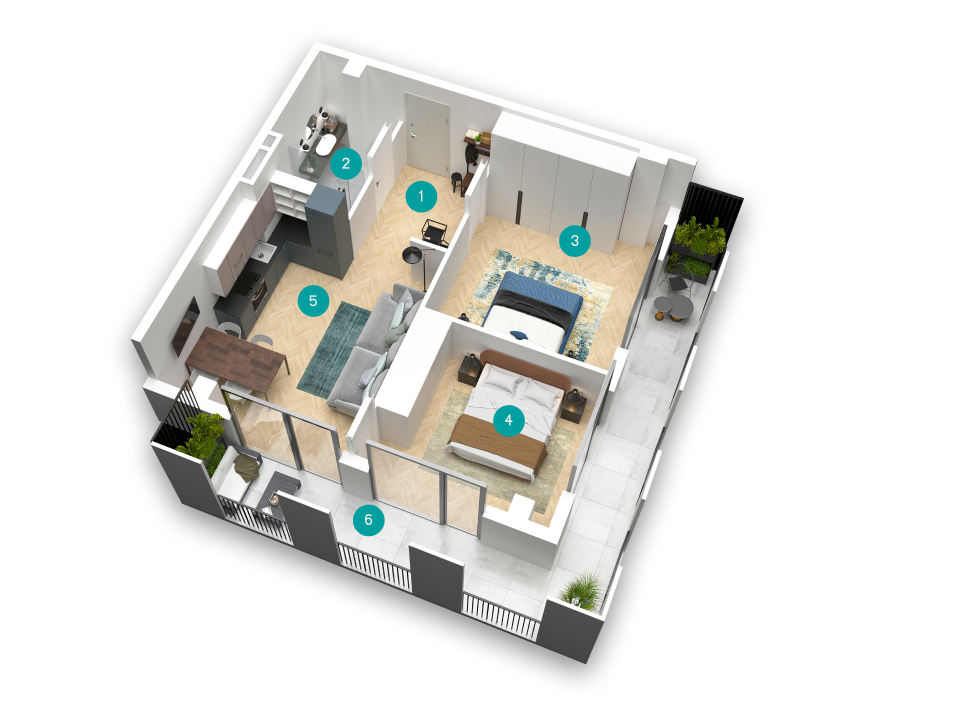
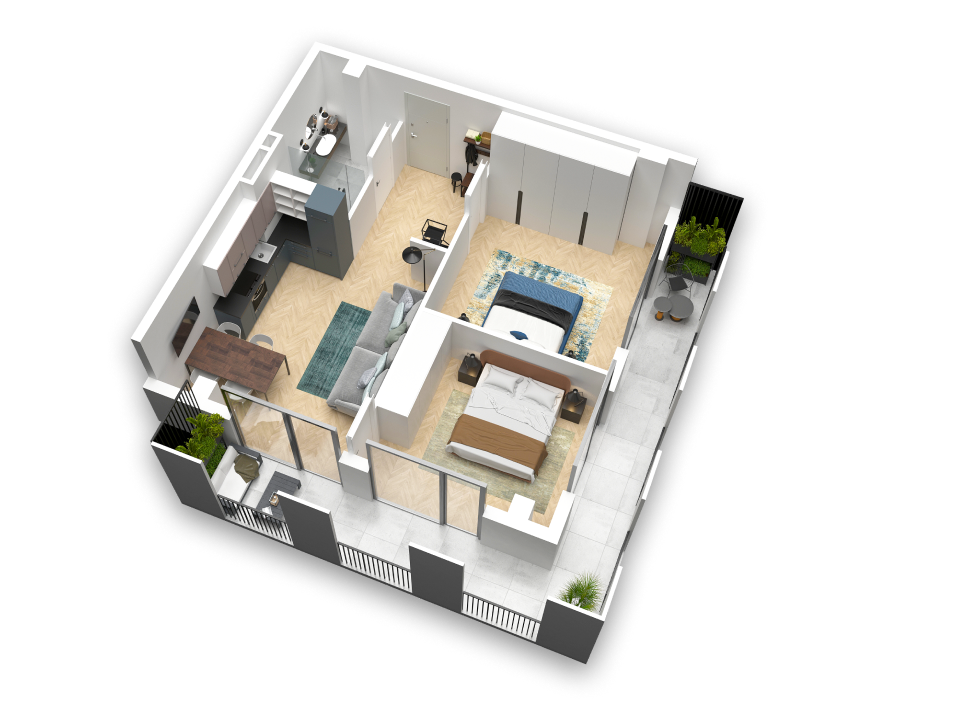
positioning numbers

diff --git a/src/components/Apartments/apartmentsInner/Apartment83.js b/src/components/Apartments/apartmentsInner/Apartment83.js
@@ -5,61 +5,37 @@ import logo from '../../../images/logo.svg'
 import './ApartmentInnerCSS.css'
 import m102inner from '../../../images/innerRenders/m83inner.png'
 
-const roomsArr = [
-    {   
-        id: 1,
-        number:1,
-        roomTypeGeo: 'ჰოლი',
-        roomTypeEng: 'Hall',
-        roomTypeRus: 'aaaa',
-        m2: '6.4 M2'      
-    },
 
-    {   
-        id: 2,
-        number:2,
-        roomTypeGeo: 'სააბაზანო',
-        roomTypeEng: 'Hall',
-        roomTypeRus: 'aaaa',
-        m2: '5 M2'
-    },
+const pointerStyle6 ={
+    left: '36%',
+    top: '70%'
+}
 
-    {
-        id: 3,
-        number:3,
-        roomTypeGeo: 'საძინებელი 1',
-        roomTypeEng: 'Hall',
-        roomTypeRus: 'aaaa',
-        m2: '17 M2'
-    },
+const pointerStyle5 ={
+    left: '30%',
+    top: '40%'
+}
 
-    {
-        id: 4,
-        number:4,
-        roomTypeGeo: 'საძინებელი 2',
-        roomTypeEng: 'Hall',
-        roomTypeRus: 'aaaa',
-        m2: '13.5 M2'
-    },
+const pointerStyle4 ={
+    right: '44.5%',
+    top: '56%'
+}
 
-    {
-        id: 5,
-        number:5,
-        roomTypeGeo: 'სტუდიო',
-        roomTypeEng: 'Hall',
-        roomTypeRus: 'aaaa',
-        m2: '20.3 M2'
-    },
+const pointerStyle3 ={
+    right: '40%',
+    top: '30%'
+}
 
-    {
-        id: 6,
-        number:6,
-        roomTypeGeo: 'აივანი',
-        roomTypeEng: 'Hall',
-        roomTypeRus: 'aaaa',
-        m2: '21.2 M2'
-    }
-]
+const pointerStyle2 ={
+    right: '61%',
+    top: '19%'
+}
+
+const pointerStyle1 ={
+    right: '55%',
+    top: '25%'
+}
+
 
 export default function Apartment83() {
 
@@ -78,6 +54,14 @@ export default function Apartment83() {
     const [roomGeo, setRoomGeo] = useState(null)
     const [roomEng, setRoomEng] = useState(null)
     const [roomRus, setRoomRus] = useState(null)
+
+    const [ballNumber, setBallNumber] = useState(null)
+    const [ball1txt, setBall1txt] = useState(null)
+    const [ball2txt, setBall2txt] = useState(null)
+    const [ball3txt, setBall3txt] = useState(null)
+    const [ball4txt, setBall4txt] = useState(null)
+    const [ball5txt, setBall5txt] = useState(null)
+    const [ball6txt, setBall6txt] = useState(null)
 
     useEffect(()=>{
         setIsEng(false)
@@ -157,6 +141,69 @@ export default function Apartment83() {
         localStorage.setItem('language', 'rus')
     }
 
+    const roomsArr = [
+        {   
+            id: 1,
+            number:1,
+            roomTypeGeo: 'ჰოლი',
+            roomTypeEng: 'Hall',
+            roomTypeRus: 'aaaa',
+            m2: '6.4 M2',
+            forBold: `${ball1txt}`         
+        },
+    
+        {   
+            id: 2,
+            number:2,
+            roomTypeGeo: 'სააბაზანო',
+            roomTypeEng: 'Hall',
+            roomTypeRus: 'aaaa',
+            m2: '5 M2',
+            forBold: `${ball2txt}`   
+        },
+    
+        {
+            id: 3,
+            number:3,
+            roomTypeGeo: 'საძინებელი 1',
+            roomTypeEng: 'Hall',
+            roomTypeRus: 'aaaa',
+            m2: '17 M2',
+            forBold: `${ball3txt}`   
+        },
+    
+        {
+            id: 4,
+            number:4,
+            roomTypeGeo: 'საძინებელი 2',
+            roomTypeEng: 'Hall',
+            roomTypeRus: 'aaaa',
+            m2: '13.5 M2',
+            forBold: `${ball4txt}`   
+        },
+    
+        {
+            id: 5,
+            number:5,
+            roomTypeGeo: 'სტუდიო',
+            roomTypeEng: 'Hall',
+            roomTypeRus: 'aaaa',
+            m2: '20.3 M2',
+            forBold: `${ball5txt}`   
+        },
+    
+        {
+            id: 6,
+            number:6,
+            roomTypeGeo: 'აივანი',
+            roomTypeEng: 'Hall',
+            roomTypeRus: 'aaaa',
+            m2: '21.2 M2',
+            forBold: `${ball6txt}`   
+        }
+    ]
+    
+
     return(
         <>
         <div className='Navbar'  style={{backgroundColor:'#A9C1A9'}}>
@@ -184,6 +231,118 @@ export default function Apartment83() {
 
                 <div className="apartment_main_inner_left">
                     <img src={m102inner} alt="m102inner" />
+
+                    <span style={pointerStyle6} className="pointers"
+                        onClick={()=>{
+                            if(ballNumber === 6){
+                                setBallNumber(null)
+                                setBall6txt(null)
+                            }else{
+                                setBallNumber(6)
+                                setBall6txt('bold')
+
+                                setBall1txt(null)
+                                setBall2txt(null)
+                                setBall3txt(null)
+                                setBall4txt(null)
+                                setBall5txt(null)
+                            }
+                        }}
+                    >6</span>
+
+                    <span style={pointerStyle5} className="pointers"
+                        onClick={()=>{
+                            if(ballNumber === 5){
+                                setBallNumber(null)
+                                setBall5txt(null)
+                            }else{
+                                setBallNumber(5)
+                                setBall5txt('bold')
+
+                                setBall1txt(null)
+                                setBall2txt(null)
+                                setBall3txt(null)
+                                setBall4txt(null)
+                                setBall6txt(null)
+                            }
+                        }}
+                    >5</span>
+
+                    <span style={pointerStyle4} className="pointers"
+                        onClick={()=>{
+                            if(ballNumber === 4){
+                                setBallNumber(null)
+                                setBall4txt(null)
+                            }else{
+                                setBallNumber(4)
+                                setBall4txt('bold')
+
+                                setBall1txt(null)
+                                setBall2txt(null)
+                                setBall3txt(null)
+                                setBall5txt(null)
+                                setBall6txt(null)
+                            }
+                        }}
+                    >4</span>
+
+                    <span style={pointerStyle3} className="pointers"
+                        onClick={()=>{
+                            if(ballNumber === 3){
+                                setBallNumber(null)
+                                setBall3txt(null)
+                            }else{
+                                setBallNumber(3)
+                                setBall3txt('bold')
+
+                                setBall1txt(null)
+                                setBall2txt(null)
+                                setBall4txt(null)
+                                setBall5txt(null)
+                                setBall6txt(null)
+                            }
+                        }}
+                    >3</span>
+
+                    <span style={pointerStyle2} className="pointers"
+                        onClick={()=>{
+                            if(ballNumber === 2){
+                                setBallNumber(null)
+                                setBall2txt(null)
+                            }else{
+                                setBallNumber(2)
+                                setBall2txt('bold')
+                                
+                                setBall1txt(null)
+                                setBall3txt(null)
+                                setBall4txt(null)
+                                setBall5txt(null)
+                                setBall6txt(null)
+                            }
+                    }}
+                    >2</span>
+
+                    <span 
+                        style={pointerStyle1} 
+                        className="pointers" 
+                        onClick={()=> {
+                            if(ballNumber === 1){
+                                setBallNumber(null)
+                                setBall1txt(null)
+                            }else{
+                                setBallNumber(1)
+                                setBall1txt('bold')
+
+                                setBall2txt(null)
+                                setBall3txt(null)
+                                setBall4txt(null)
+                                setBall5txt(null)
+                                setBall6txt(null)
+                            }
+                        }
+                            
+                        }
+                        >1</span>
                 </div>
 
                 <div className="apartment_main_inner_right">
@@ -195,15 +354,15 @@ export default function Apartment83() {
                                 <div className="apartment_rooms" key={room.id}>
                                     <div className="room">
 
-                                        <div className="number_name">
+                                    <div className="number_name">
                                             <div className="numberRounded">{room.number}</div>
 
-                                            <p className={roomGeo}>{room.roomTypeGeo}</p>
-                                            <p className={roomEng}>{room.roomTypeEng}</p>
-                                            <p className={roomRus}>{room.roomTypeRus}</p>
+                                            <p className={roomGeo}><span className={room.forBold}>{room.roomTypeGeo}</span></p>
+                                            <p className={roomEng}><span className={room.forBold}>{room.roomTypeEng}</span></p>
+                                            <p className={roomRus}><span className={room.forBold}>{room.roomTypeRus}</span></p>
                                         </div>
 
-                                        <p>{room.m2}</p>
+                                        <p className={room.forBold}>{room.m2}</p>
                                     </div>
                                 </div>
                             )
